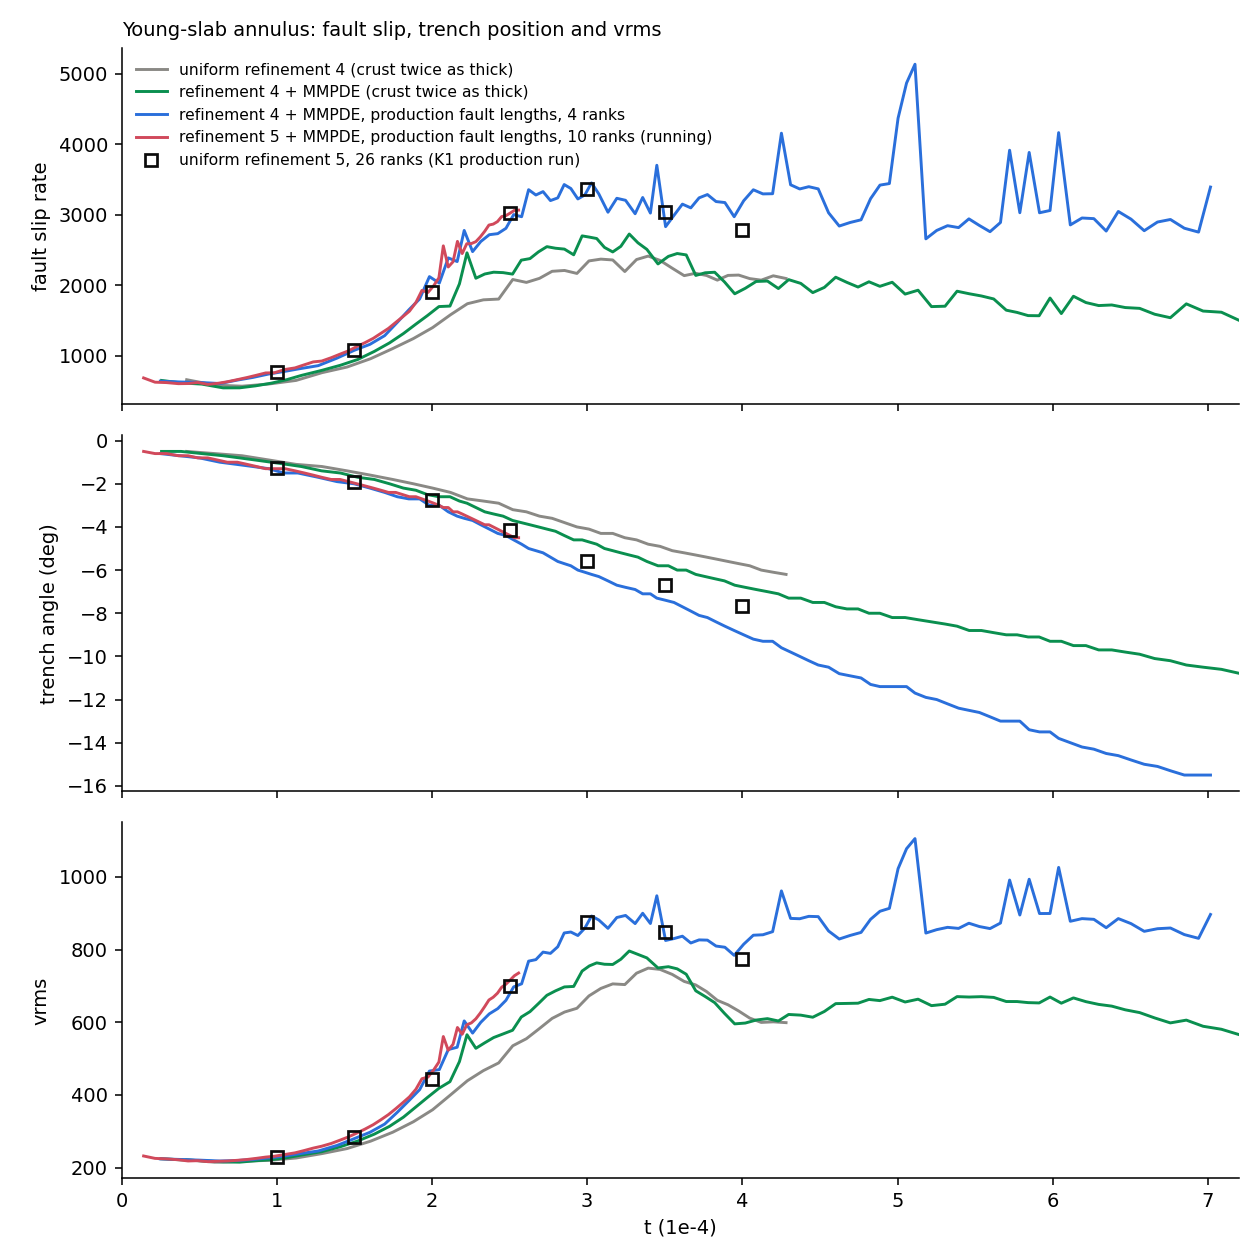
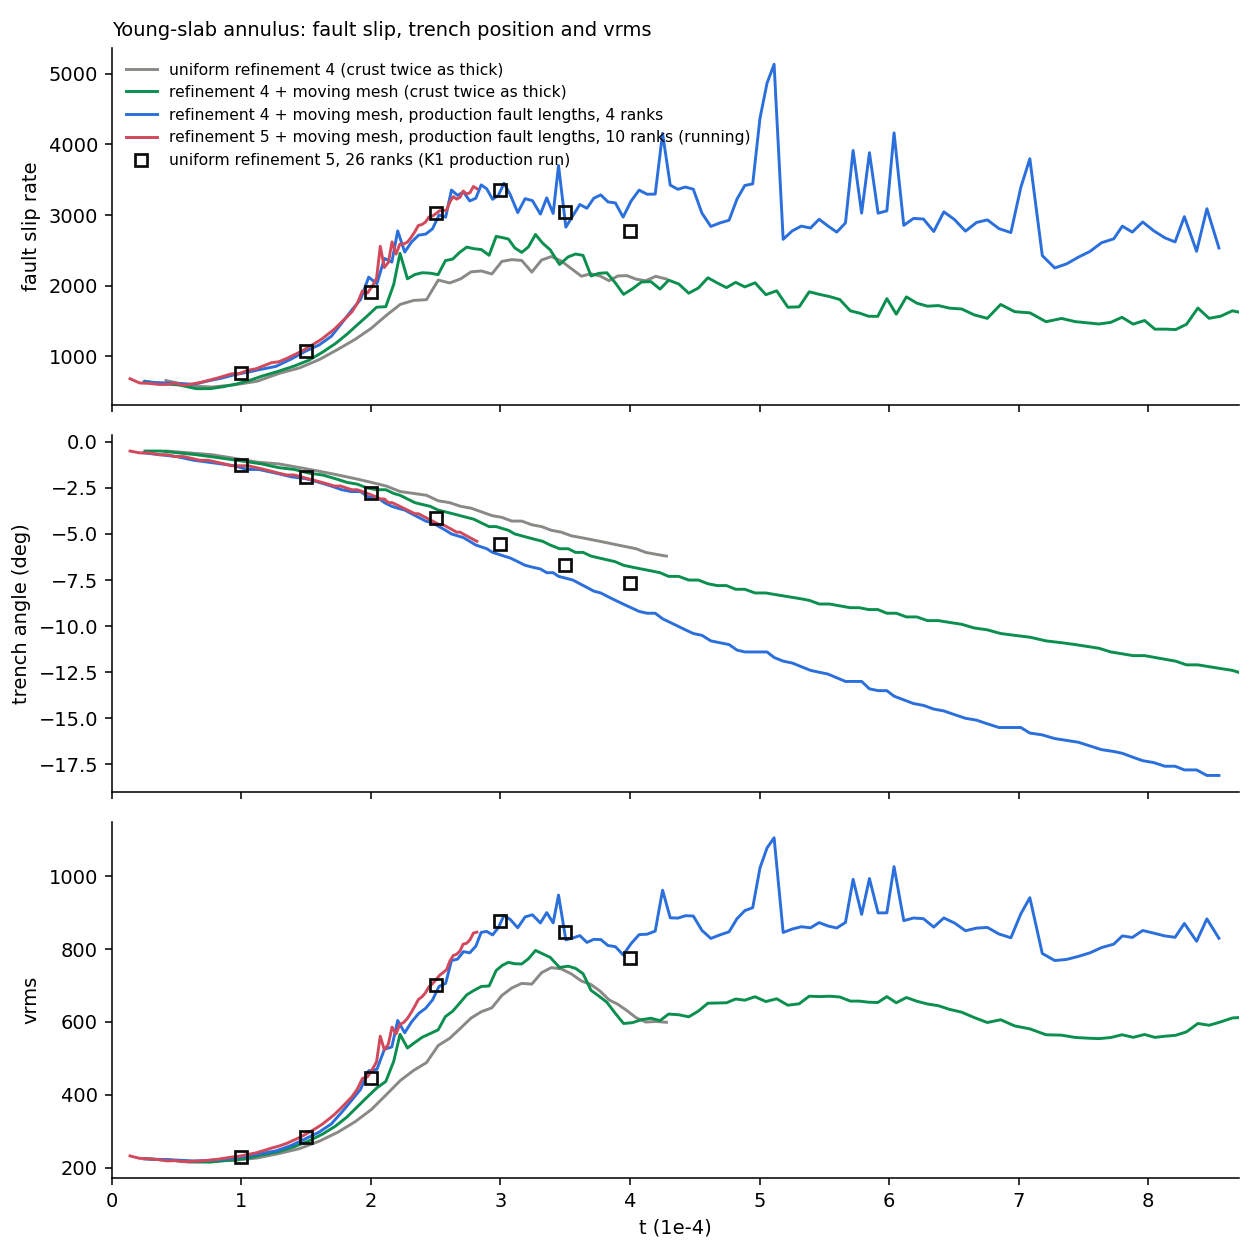
Sample runs for the moving-mesh plus fault write-up; comparison figure with the finished refinement-4 run

diff --git a/mmpde_fault_sample_runs.md b/mmpde_fault_sample_runs.md
@@ -1,0 +1,74 @@
+# Sample runs: a moving mesh with an embedded fault (young-slab annulus)
+
+Status at 2026-11-13 03:00 UTC. Written for the write-up of the moving-mesh (MMPDE) plus fault work.
+
+## What the runs are
+
+- **Model.** The young-slab subduction annulus of the zg95 lid-regime campaign: outer radius 2.222, inner 1.222 (unit = 2900 km), one slab with a weak crust, and one fault at the plate boundary carried as a split in the mesh.
+- **Each step.** The fault is cut into the base mesh as a "ladder" of quadrilateral-like rungs (spacing S, band width 2S), the Stokes problem is solved on that mesh with multigrid over the refinement levels, and temperature is advected on the base mesh.
+- **What is new.** The base mesh moves: every 5 steps its nodes are redistributed to follow the temperature gradient (finest to coarsest cell-size ratio 8), with three moves on the initial temperature before the first fault is cut. The fault ladder is then cut into the moved mesh.
+- **Reference.** A uniform-mesh production run of the same model at refinement 5 on 26 ranks (126,976 base cells), run on a Linux cluster by the session that owns the production models. Its history is available to t = 4.0e-4.
+- **Where they ran.** A 96-thread Linux workstation (single system image; Intel Xeon Gold 6240R; MPICH), shared with other jobs, so wall times are indicative only.
+- **Code.** underworld3 development at 613ed1e0 (includes the parallel placement fix, #1094). The driver is `annulus_faults.py` with three added options: `uw_mmpde_init`, `uw_mmpde_every`, `uw_mmpde_spacing`.
+
+## The runs
+
+| Run tag | Base cells | Ranks | Fault lengths | Mesh | Steps | t_end | s/step | Wall |
+|---|---|---|---|---|---|---|---|---|
+| `baseline_ref4_x2_np4` | 31,744 | 4 | doubled | uniform | 40 | 4.3e-4 | 95 | 1.0 h |
+| `mmpde5_ref4_np4_dev` | 31,744 | 4 | doubled | moving | 120 | 9.9e-4 | 134 | 4.6 h |
+| `mmpde5_ref4_np4_dev_sfollow` | 31,744 | 4 | doubled, rungs sized to the moved mesh | moving | 120 | 1.03e-3 | 153 | 5.1 h |
+| `mmpde5_ref4_prod_np4` | 31,744 | 4 | production | moving | 120 | 8.6e-4 | 202 | 6.7 h |
+| `mmpde5_ref5_prod_np10` | 126,976 | 10 | production | moving | running (64 at 03:00 UTC) | 2.8e-4 so far | 362 | stops at 07:33 UTC |
+| `mmpde5_ref4_np1_s80` | 31,744 | 1 | doubled | moving | 80 | 6.2e-4 | 348 | 8.0 h |
+
+- "Production" fault lengths: rung spacing 0.0078125, crust thickness 0.00390625, crust depth 0.006. "Doubled" is twice each (the low-resolution recipe).
+- Refinement 4 is 31,744 base cells; refinement 5 is 126,976.
+- All steps converged in every run listed. No solver divergence.
+
+## Main result
+
+With the moving mesh, refinement 4 reproduces the uniform refinement-5 production run through the slip peak, on a quarter of the cells.
+
+Entries are fault slip rate / trench angle / vrms.
+
+| t | Uniform ref 4 (doubled lengths) | Ref 4 + moving mesh (production lengths) | Ref 5 + moving mesh (production lengths) | Uniform ref 5 production run |
+|---|---|---|---|---|
+| 1.0e-4 | 610 / −0.96° / 222 | 756 / −1.41° / 229 | 766 / −1.30° / 232 | 767 / −1.25° / 230 |
+| 1.5e-4 | 874 / −1.46° / 259 | 1075 / −2.00° / 280 | 1110 / −1.97° / 292 | 1079 / −1.90° / 284 |
+| 2.0e-4 | 1392 / −2.19° / 358 | 2096 / −3.00° / 467 | 1964 / −2.87° / 463 | 1904 / −2.76° / 445 |
+| 2.5e-4 | 2018 / −3.13° / 525 | 2899 / −4.50° / 678 | 3018 / −4.39° / 715 | 3024 / −4.15° / 701 |
+| 3.0e-4 | 2318 / −4.09° / 668 | 3341 / −6.14° / 871 | running | 3361 / −5.57° / 877 |
+| 3.5e-4 | 2307 / −4.98° / 740 | 2907 / −7.39° / 836 | | 3037 / −6.70° / 847 |
+| 4.0e-4 | 2125 / −5.73° / 624 | 3167 / −8.97° / 811 | | 2777 / −7.68° / 775 |
+
+![histories](fault_compare_production_lengths.png)
+
+- Up to t = 3.5e-4 the refinement-4 moving-mesh run is within about 5% of the production run in slip and vrms, except slip at 2.0e-4, which is 10% high. Its trench runs ahead by 0.1° to 0.7°.
+- The refinement-5 moving-mesh run sits on the production run's points to within 4% as far as it has gone (t = 2.8e-4).
+- The uniform refinement-4 run is not like for like (its crust and rungs are twice as thick), but it shows the size of the gap: slip peak 2400 against 3361.
+
+## The meshes
+
+At t ≈ 2.5e-4 the base cell at the fault is 0.020 (refinement 4) and 0.010 (refinement 5). The ladder brings both to 0.0078 on the fault.
+
+![meshes](fault_mesh_production_lengths.png)
+
+Other figures in this branch:
+
+- `fault_mesh_parallel_demo_step100.png`, `fault_compare_parallel_demo.png`: the doubled-length runs, serial against 4 ranks.
+- `fault_mesh_ladder_sized_step10.png`, `fault_compare_ladder_sized.png`: rungs sized to the moved mesh against the fixed recipe size.
+
+## Parallel against serial
+
+At refinement 4 with doubled lengths, the 4-rank and serial moving-mesh runs agree to within 2% in the vrms peak and 0.2° in trench angle. Slip differs by up to 14% at single times during the jump near t = 2e-4. The two were on different builds, so this is an upper bound on the rank-count effect, not a measurement of it.
+
+## Caveats to state in the write-up
+
+- **Late time is unchecked.** After t = 3.5e-4 the refinement-4 production-length run departs from the production run: slip stays near 3000 instead of decaying, and the trench is at −9.0° against −7.7° at 4.0e-4. There is no reference history beyond 4.0e-4.
+- **Slip spikes.** That run has one-step slip spikes after the peak (up to 5100 at t ≈ 5.1e-4, against a level near 3000). Cause not investigated.
+- **One placement refusal.** At step 84 of that run the fault could not be cut ("the fault touches the domain boundary"); the previous step's fault was kept for one step. This is a known limit for a fault that ends within a few fine cells of a wall (#1090).
+- **Cost.** The moving-mesh runs here take 134 to 202 s/step at refinement 4 on 4 ranks, against 95 for the uniform mesh, and 362 s/step at refinement 5 on 10 ranks. No like-for-like timing against the 26-rank production run exists yet, so the write-up can claim the cell count (a quarter), not a speed-up.
+- **Rank count.** The mover's result depends weakly on the rank count through evaluation at partition seams (#1093, #1107). Compare runs at a fixed rank count.
+- **Not for use.** A serial run with an extra plate-boundary term in the metric and rungs sized to the moved mesh fell well behind the others (slip peak 2011) and is treated as suspect.
+- **Rung size.** The rung spacing is set once at the start and never changed during a run. Sizing it from the moved mesh (0.0088 against the recipe's 0.0156 at doubled lengths) changes the peak by a few percent; the exact ratio is secondary.
